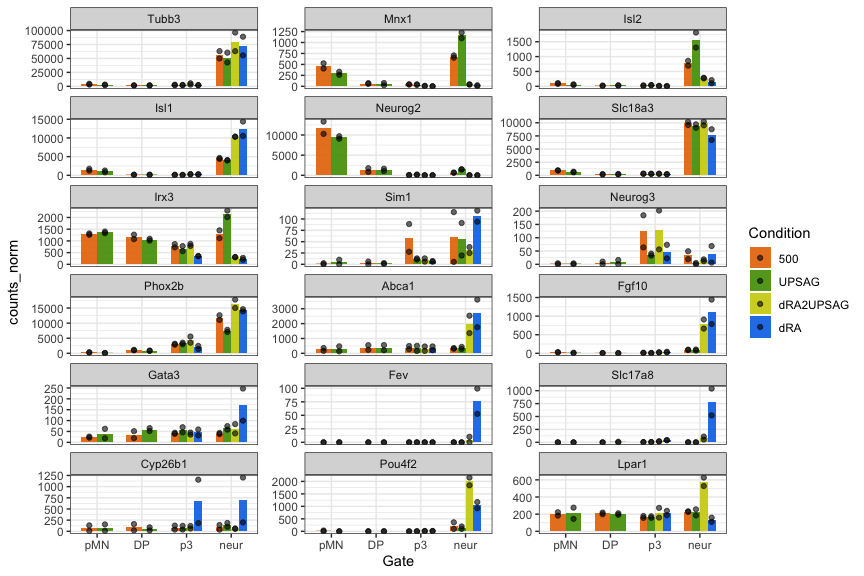
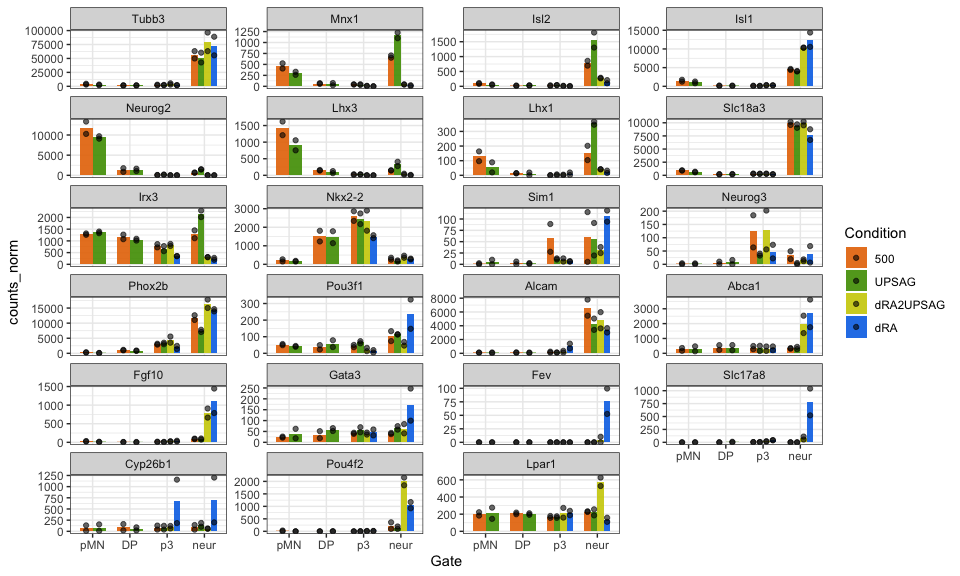
updated plot genes

Changed region(s): [[0.0, 0.0, 1.0, 1.0]]

diff --git a/r_files/DPpilotRNA_2_quick_plotgenes.md b/r_files/DPpilotRNA_2_quick_plotgenes.md
@@ -74,7 +74,9 @@ dds_counts_plot <- dds_counts %>%
 ### Basic QC
 
 ``` r
-geneOI <- c("Sox2","Dbx1","Irx3","Pax6","Nkx6-1","Olig2","Nkx2-2","Foxa2","Shh","Arx","Tubb3","Sim1","Mnx1")
+geneOI <- c("Sox2",
+            "Dbx1","Irx3","Pax6","Nkx6-1","Olig2","Nkx2-2","Foxa2","Shh","Arx",
+            "Tubb3","Sim1","Mnx1")
 
 
 ggplot(dds_counts_plot %>% filter(geneid %in% geneOI) %>% mutate(geneid=factor(geneid, levels=geneOI)), 
@@ -136,10 +138,13 @@ ggplot(dds_counts_plot %>% filter(geneid %in% geneOI) %>% mutate(geneid=factor(g
 Just D7:
 
 - dRA: Fev and Gata3 point to more anterior (5HT generation?)
+- dRA also high in Pou3f1 (Alcam), expressed in spinal accessory column
+  (Cervical level)
 
 ``` r
-geneOI <- c("Tubb3","Mnx1","Isl2","Isl1","Neurog2","Slc18a3","Irx3",
-            "Sim1","Neurog3","Phox2b",
+geneOI <- c("Tubb3","Mnx1","Isl2","Isl1","Neurog2","Lhx3","Lhx1",
+            "Slc18a3","Irx3",
+            "Nkx2-2","Sim1","Neurog3","Phox2b","Pou3f1","Alcam",
             "Abca1","Fgf10",
             "Gata3","Fev","Slc17a8","Cyp26b1",
             "Pou4f2","Lpar1")
@@ -154,7 +159,7 @@ ggplot(dds_counts_plot %>% filter(geneid %in% geneOI & Day=="D7") %>% mutate(gen
   scale_fill_manual(values=colors_conditions) +
   scale_color_manual(values=colors_conditions) +
   scale_shape_manual(values=shapes4_fill_manual) +
-  facet_wrap(~ geneid, scales = "free_y", ncol=3) +
+  facet_wrap(~ geneid, scales = "free_y", ncol=4) +
   theme_bw()
 ```
 
